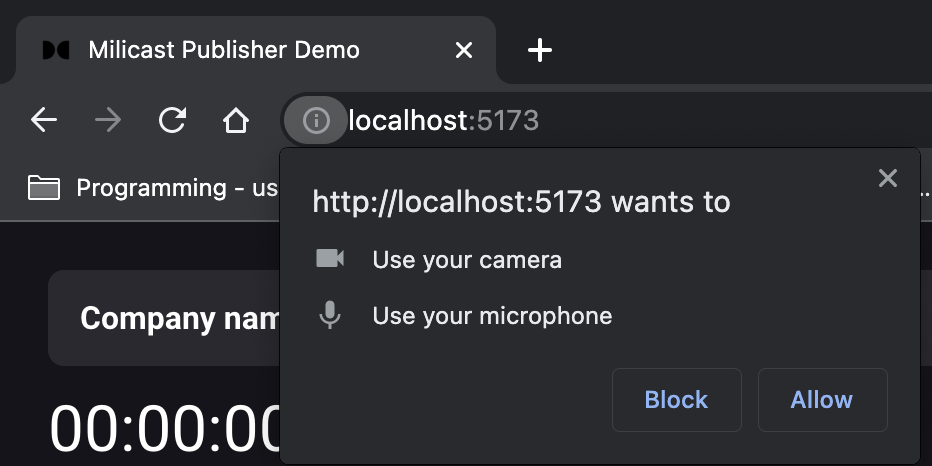
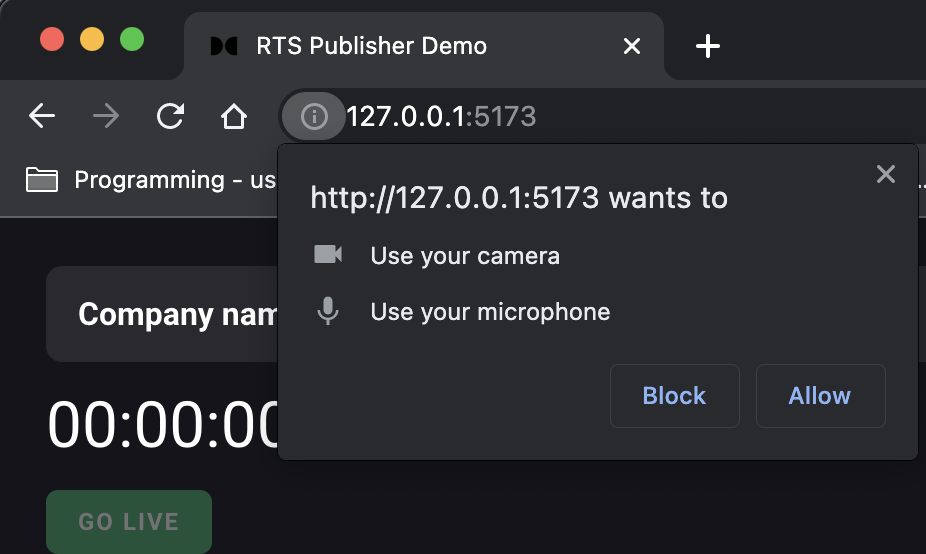
Update readme with multi screen (#276)
* update spec with multi-source

* Split read me into two sections

* Issue 241 refactor stream state management in publisher (#273)

* refactor: refactored video information state implementation in publisher

* refactor: redid file upload state

* test: reenabled test

* test: added missing test spex

* Revert "test: added missing test spex"

This reverts commit 41383a0041f344351dc115cef6232c66bf19ff5b.

* chore: undid unnecessary tsconfig reference

* test: fix simulcast test

* fix: resolved apply constraints bug

* fix: simulcast on by default when codec is h264

* Revert "Issue 241 refactor stream state management in publisher (#273)" (#278)

This reverts commit e6c8ccd6c82394e5e4df794d5c5b1b61d5fe1430.

* Fix layout style

* Add in local file

* Update features list

* Issue 241 refactor publisher streams states (#279)

* refactor: refactored video information state implementation in publisher

* refactor: redid file upload state

* test: reenabled test

* test: added missing test spex

* Revert "test: added missing test spex"

This reverts commit 41383a0041f344351dc115cef6232c66bf19ff5b.

* chore: undid unnecessary tsconfig reference

* test: fix simulcast test

* fix: resolved apply constraints bug

* fix: simulcast on by default when codec is h264

* fix: removed unused method, resolved add device bug

* refactor: moved all state into usePublisher hook

* fix: show multisource badge only when more than one is active

* fix: temporary change to be undone in #195
[…]

diff --git a/apps/publisher/src/app.tsx b/apps/publisher/src/app.tsx
@@ -41,12 +41,8 @@ import './styles/font.css';
 const MAX_SOURCES = 4;
 const TIMESTAMP_STREAM_NAME = new Date().valueOf().toString();
 
-const {
-  VITE_MILLICAST_VIEWER_BASE_URL,
-  VITE_MILLICAST_STREAM_ID,
-  VITE_MILLICAST_STREAM_NAME,
-  VITE_MILLICAST_STREAM_PUBLISHING_TOKEN,
-} = import.meta.env;
+const { VITE_RTS_VIEWER_BASE_URL, VITE_RTS_ACCOUNT_ID, VITE_RTS_STREAM_NAME, VITE_RTS_STREAM_PUBLISHING_TOKEN } =
+  import.meta.env;
 
 const App = () => {
   const {
@@ -81,11 +77,11 @@ const App = () => {
     viewerCount,
   } = usePublisher({
     handleError: showError,
-    streamName: VITE_MILLICAST_STREAM_NAME || TIMESTAMP_STREAM_NAME,
-    streamNameId: VITE_MILLICAST_STREAM_ID,
+    streamNameId: VITE_RTS_ACCOUNT_ID,
     streams,
-    token: VITE_MILLICAST_STREAM_PUBLISHING_TOKEN,
-    viewerAppBaseUrl: VITE_MILLICAST_VIEWER_BASE_URL,
+    streamName: VITE_RTS_STREAM_NAME || TIMESTAMP_STREAM_NAME,
+    token: VITE_RTS_STREAM_PUBLISHING_TOKEN,
+    viewerAppBaseUrl: VITE_RTS_VIEWER_BASE_URL,
   });
 
   // Prevent closing the page

diff --git a/apps/viewer/src/app.tsx b/apps/viewer/src/app.tsx
@@ -19,8 +19,8 @@ const MAX_SOURCES = 4;
 const App = () => {
   const href = new URL(window.location.href);
 
-  const streamName = href.searchParams.get('streamName') ?? import.meta.env.VITE_MILLICAST_STREAM_NAME;
-  const streamAccountId = href.searchParams.get('streamAccountId') ?? import.meta.env.VITE_MILLICAST_STREAM_ID;
+  const streamName = href.searchParams.get('streamName') ?? import.meta.env.VITE_RTS_STREAM_NAME;
+  const streamAccountId = href.searchParams.get('streamAccountId') ?? import.meta.env.VITE_RTS_ACCOUNT_ID;
 
   const { showError } = useNotification();
 

diff --git a/apps/publisher/src/vite-env.d.ts b/apps/publisher/src/vite-env.d.ts
@@ -1,10 +1,10 @@
 /// <reference types="vite/client" />
 
 interface ImportMetaEnv {
-  readonly VITE_MILLICAST_STREAM_PUBLISHING_TOKEN: string;
-  readonly VITE_MILLICAST_STREAM_NAME: string;
-  readonly VITE_MILLICAST_STREAM_ID: string;
-  readonly VITE_MILLICAST_VIEWER_BASE_URL: string;
+  readonly VITE_RTS_STREAM_PUBLISHING_TOKEN: string;
+  readonly VITE_RTS_STREAM_NAME: string;
+  readonly VITE_RTS_ACCOUNT_ID: string;
+  readonly VITE_RTS_VIEWER_BASE_URL: string;
   // more env variables...
 }
 

diff --git a/apps/e2e-test/src/config/defaults.ts b/apps/e2e-test/src/config/defaults.ts
@@ -2,6 +2,6 @@ export const defaultExecutionTimeout = 45 * 1000;
 export const loggerLevel = 'error';
 export const defaultReportPath = './apps/e2e-test/reports';
 export const selectorMappingPath = 'apps/e2e-test/selector-mappings';
-export const autName = 'Millicast - Real Time Streaming App';
+export const autName = 'Real Time Streaming App';
 export const testReportTitle = 'Test Automation Report';
 export const multiContext = false;

diff --git a/apps/publisher/index.html b/apps/publisher/index.html
@@ -7,7 +7,7 @@
     <link rel="apple-touch-icon" href="/DolbyIO-favicon-180x180.webp" />
     <meta name="msapplication-TileImage" content="/DolbyIO-favicon-270x270.webp" />
     <meta name="viewport" content="width=device-width, initial-scale=1.0" />
-    <title>Milicast Publisher Demo</title>
+    <title>RTS Publisher Demo</title>
   </head>
   <body>
     <div id="root"></div>

diff --git a/apps/viewer/index.html b/apps/viewer/index.html
@@ -7,7 +7,7 @@
     <link rel="apple-touch-icon" href="/DolbyIO-favicon-180x180.webp" />
     <meta name="msapplication-TileImage" content="/DolbyIO-favicon-270x270.webp" />
     <meta name="viewport" content="width=device-width, initial-scale=1.0" />
-    <title>Milicast Viewer Demo</title>
+    <title>RTS Viewer Demo</title>
   </head>
   <body>
     <div id="root"></div>

diff --git a/apps/viewer/src/vite-env.d.ts b/apps/viewer/src/vite-env.d.ts
@@ -1,7 +1,7 @@
 /// <reference types="vite/client" />
 interface ImportMetaEnv {
-  readonly VITE_MILLICAST_STREAM_NAME: string;
-  readonly VITE_MILLICAST_STREAM_ID: string;
+  readonly VITE_RTS_STREAM_NAME: string;
+  readonly VITE_RTS_ACCOUNT_ID: string;
   // more env variables...
 }
 

diff --git a/README.md b/README.md
@@ -1,33 +1,51 @@
-# rts-app-react-publisher-viewer
+# Real-time Streaming - Publisher & Viewer Sample Apps
 
-A sample app to showcase the capabilities of Dolby.io's Real Time Streaming SDK and how it can be used to design solutions that require ultra low latency (sub 500ms). You can read more about this offering from Dolby.io [here](https://dolby.io/products/real-time-streaming/).
+<p align="center">
+<img src="documentation/assets/banner.jpg" width="175px" />
+</p>
 
-## Prerequisites
+## Overview
 
-In order to run this demo, you will need a Dolby.io account. If you don't already have one, you can create one on [our website](https://dashboard.dolby.io).
-You will also need the following tools installed on your machine.
+Quickly stand-up a lightning fast, broadcast quality, real-time streaming app with ultra low-latency (sub 500ms).
+Want to learn more? Check out the [Real Time Streaming app gallery page](https://docs.dolby.io/streaming-apis/docs/real-time-streaming-publisher-viewer-sample-apps).
+
+## Getting Started
+
+### Prerequisites
 
 - Node v16.16.0
 - Yarn v1.22.19
+- A Dolby.io account
+
+#### How to get a Dolby.io account
+
+To setup your Dolby.io account, go to the [Dolby.io dashboard](https://dashboard.dolby.io/signup/) and complete the form. After confirming your email address, you will be logged in.
 
 ## Features and roadmap
 
-- [x] Publish and view streams
-- [x] Invite viewers to watch your stream
-- [x] Mute audio and video both as publisher and viewer
-- [x] Screen sharing
+### RTS Publisher
+
+- [x] Publish streams
 - [x] Publish with simulcast (only on Chrome)
 - [x] Microphone and camera device selection
+- [x] Invite viewers to watch your stream
+- [x] Screen sharing
+- [x] Mute audio and video
 - [x] Resolution, bandwidth, codec, and bitrate selection
-- [x] Observing stream statistics
-- [ ] Ability to stream from two or more sources
-- [ ] Ability to have multiple publishers
-- [ ] Grid layout for video sources
+- [x] Ability to stream from up to 4 sources. See [here](https://docs.dolby.io/streaming-apis/docs/create-multi-view-web-app) for bandwidth limitations.
+- [x] Ability to stream a local video file
+- [x] Observing stream statistics for each simulcast layer
 - [ ] Recording your streams
+
+### RTS Viewer
+
+- [x] View streams
+- [x] Mute audio and video
+- [x] Observing stream statistics
+- [x] Select incoming stream quality with simulcast
+- [x] Ability to see stats for each individual source
 - [ ] Chromecast support
 - [ ] Picture in picture support
-- [ ] Ability to see stats for each individual source
-- [ ] Improved simulcast stats for the publisher
 
 ## Project structure
 
@@ -39,7 +57,7 @@ This project is setup as a [yarn](https://yarnpkg.com/) based [nx-managed](https
 - Shared components/hooks (under `libs/*`)
 - Storybook stories (under `.apps/stories/*`)
 
-The Millicast solution is broken down into 2 parts - the publisher (or the broadcaster) and the subscriber (or the viewer). This repository contains sample code for both parts.
+The RTS solution is broken down into 2 parts - the publisher (or the broadcaster) and the subscriber (or the viewer). This repository contains sample code for both parts.
 
 ## Installation and setup
 
@@ -49,7 +67,7 @@ To install the libraries necessary, clone the repo. Then from the root directory
 yarn
 ```
 
-### Millicast Tokens
+### RTS Tokens
 
 In order for this application to work, you need three tokens - `stream name`, `stream account id` and `stream publishing token`. These tokens can be found in your [Dolby.io dashboard](https://streaming.dolby.io/#/tokens), under the streaming tab for a given token.
 
@@ -70,25 +88,25 @@ For your application to pick these values up, you can either set them as environ
 ![env file folder structure](docs/img/env.png)
 
 ```bash
-VITE_MILLICAST_STREAM_NAME=<your stream name>
-VITE_MILLICAST_STREAM_PUBLISHING_TOKEN=<your stream token>
-VITE_MILLICAST_STREAM_ID=<your stream id>
+VITE_RTS_STREAM_NAME=<your stream name>
+VITE_RTS_STREAM_PUBLISHING_TOKEN=<your stream token>
+VITE_RTS_ACCOUNT_ID=<your account id>
 ```
 
-**Note**: Please see the [vite documentation](https://vitejs.dev/guide/env-and-mode.html) for naming conventions around env files.
+**Note**: Please set these env variables before you launch the apps. You can either set them via the command line in your bash/zsh environment or by entering them in your .env file.
 
 #### Configuring the viewer link
 
 The viewer link is configured in the `.env` file in your `apps/publisher` directory, or in your bash/zsh/systen environment variables. To set the URL, insert/update the following variable:
 
 ```bash
-VITE_MILLICAST_VIEWER_BASE_URL=<Your URL goes here>
+VITE_RTS_VIEWER_BASE_URL=<Your URL goes here>
 ```
 
 > If you are using a particular port number, please add this to the URL. The best way to do this is to first [run the viewer app](#running-the-viewer-app), grab the URL from your browser and add it to your `.env` file as such.
 
 ```bash
-VITE_MILLICAST_VIEWER_BASE_URL=http://localhost:5174/
+VITE_RTS_VIEWER_BASE_URL=http://localhost:5174/
 ```
 
 #### Running the publisher app in dev mode
@@ -148,3 +166,7 @@ There are known limitations with webRTC and Mozilla Firefox, and therefore the b
 The apps and components provided here should be used as reference material. Although we have taken great care in creating these, please note that they are not intended for real production use and there may be some bugs.
 
 Please report any issues under `Issues` on our [GitHub](https://github.com/dolbyio-samples/stream-demo-react-millicast/issues) and appropriately label them. Please review the existing open issues before raising a new one.
+
+## More resources
+
+Looking for more sample apps and projects? Head to the [Project Gallery](https://docs.dolby.io/communications-apis/page/gallery).

diff --git a/apps/e2e-test/README.md b/apps/e2e-test/README.md
@@ -30,7 +30,7 @@ yarn
 
 ## [Optional] Publisher and Viewer app installation locally
 
-Follow the Millicast Tokens section of the main ReadMe [ReadMe file](../../README.md) to configure the token as environment variable
+Follow the RTS Tokens section of the main ReadMe [ReadMe file](../../README.md) to configure the token as environment variable
 
 To launch the Publisher and Viewer App locally, run the following command:
 
